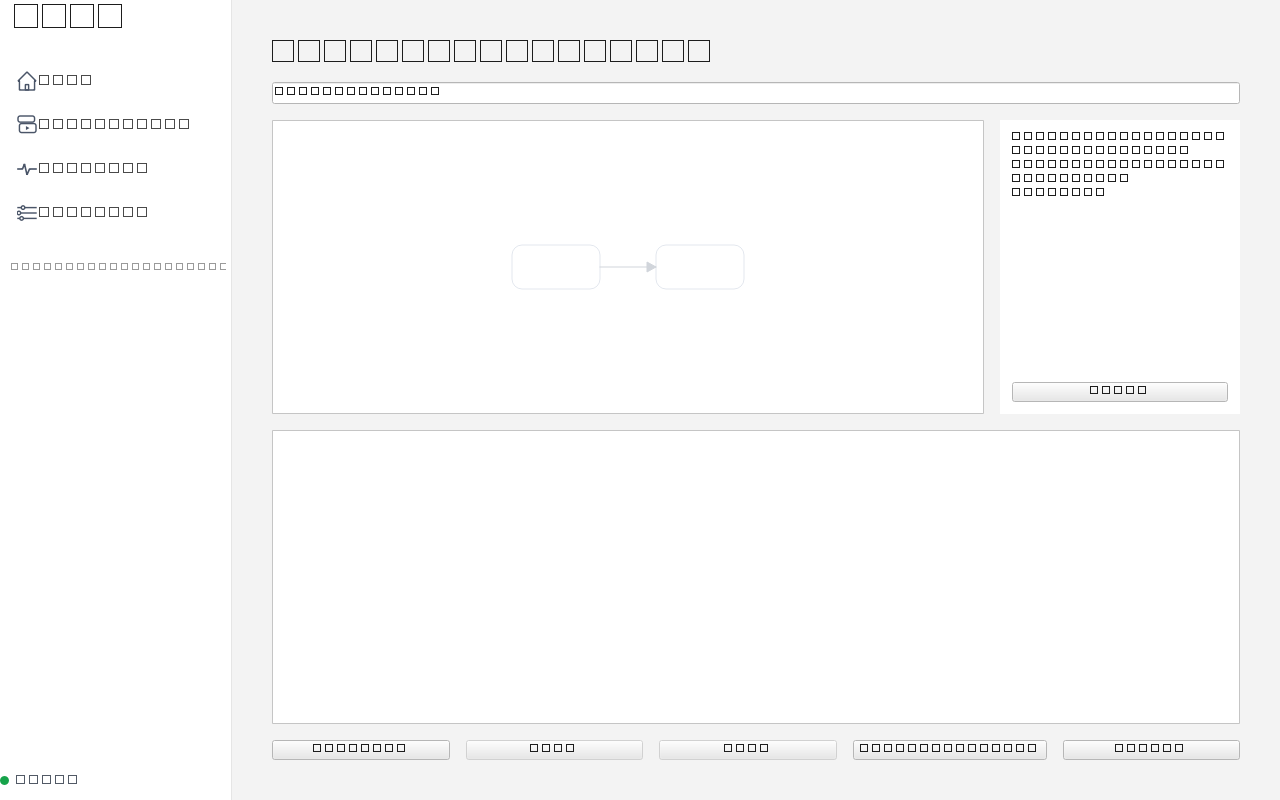
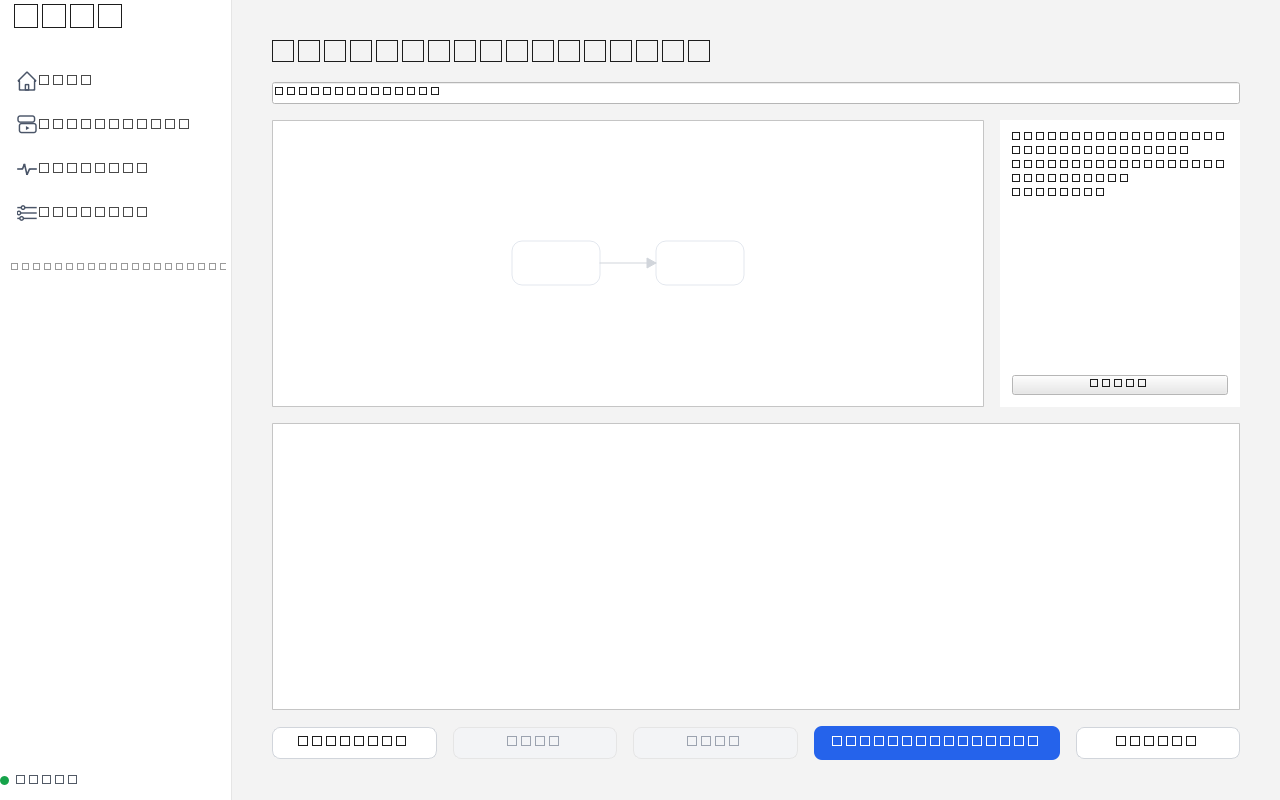
fix(ui): polish shell editor presentation

diff --git a/ui/pages/editor.py b/ui/pages/editor.py
@@ -103,14 +103,19 @@ class EditorPage(QWidget):
         layout.addWidget(self._steps_list)
         actions = QHBoxLayout()
         self._add_button = QPushButton("Add step", self)
+        self._add_button.setObjectName("secondaryActionButton")
         self._add_button.clicked.connect(self._add_step)
         self._undo_button = QPushButton("Undo", self)
+        self._undo_button.setObjectName("secondaryActionButton")
         self._undo_button.clicked.connect(self._undo)
         self._redo_button = QPushButton("Redo", self)
+        self._redo_button.setObjectName("secondaryActionButton")
         self._redo_button.clicked.connect(self._redo)
         self._save_button = QPushButton("Save automation", self)
+        self._save_button.setObjectName("primaryActionButton")
         self._save_button.clicked.connect(self._save)
         self._cancel_button = QPushButton("Cancel", self)
+        self._cancel_button.setObjectName("secondaryActionButton")
         self._cancel_button.clicked.connect(self.cancelled.emit)
         for button in (
             self._add_button,

diff --git a/tests/test_shell.py b/tests/test_shell.py
@@ -55,6 +55,7 @@ def test_home_page_shows_welcome_and_empty_activity(qtbot, window):
     assert "Once" in title
     assert "personal assistant" in subtitle
     assert home._activity_empty.isVisible() is True
+    assert home._demo_button.parentWidget().minimumHeight() >= 180
 
 
 def test_create_automation_page_has_description_input(qtbot, window):
@@ -105,6 +106,17 @@ def test_create_automation_button_ignores_blank_input(qtbot, window):
     qtbot.mouseClick(page._create_button, Qt.MouseButton.LeftButton)
 
     assert received == []
+    assert page._banner.isHidden()
+
+
+def test_create_from_scratch_clears_description_unavailable_banner(qtbot, window):
+    window._show_create_automation()
+    page = window.create_automation_page
+    page.show_not_available("Open invoices")
+    assert page._banner.isVisible()
+
+    qtbot.mouseClick(page._scratch_button, Qt.MouseButton.LeftButton)
+
     assert page._banner.isHidden()
 
 

diff --git a/ui/pages/create_automation.py b/ui/pages/create_automation.py
@@ -84,7 +84,7 @@ class CreateAutomationPage(QWidget):
         layout.addWidget(actions_container)
         self._scratch_button = QPushButton("Create from scratch", self)
         self._scratch_button.setObjectName("secondaryActionButton")
-        self._scratch_button.clicked.connect(self.editor_requested.emit)
+        self._scratch_button.clicked.connect(self._open_scratch_editor)
         layout.addWidget(self._scratch_button)
 
     def show_not_available(self, task_text: str) -> None:
@@ -102,6 +102,11 @@ class CreateAutomationPage(QWidget):
         text = self._description_input.toPlainText().strip() if self._description_input else ""
         if text:
             self.task_entered.emit(text)
+
+    def _open_scratch_editor(self) -> None:
+        if self._banner is not None:
+            self._banner.clear()
+        self.editor_requested.emit()
 
     def clear(self) -> None:
         if self._description_input:

diff --git a/tests/test_editor_page.py b/tests/test_editor_page.py
@@ -105,6 +105,16 @@ def test_clearing_the_name_keeps_previous_name_and_warns_inline(qtbot, tmp_path)
     assert "needs a name" in window.editor_page._banner.body_text
 
 
+def test_editor_actions_have_visible_button_styles(qtbot, tmp_path) -> None:
+    window = _make_window(qtbot, tmp_path)
+    window._show_editor()
+
+    assert window.editor_page._add_button.objectName() == "secondaryActionButton"
+    assert window.editor_page._undo_button.objectName() == "secondaryActionButton"
+    assert window.editor_page._redo_button.objectName() == "secondaryActionButton"
+    assert window.editor_page._save_button.objectName() == "primaryActionButton"
+
+
 def test_unsaved_bar_can_stay_then_discard_definition_changes(qtbot, tmp_path) -> None:
     window = _make_window(qtbot, tmp_path)
     _create_and_rename(window, qtbot, "Unsaved automation")

diff --git a/ui/components/cards.py b/ui/components/cards.py
@@ -41,6 +41,7 @@ class Card(QFrame):
         self._body = QLabel(body, self)
         self._body.setObjectName("cardBody")
         self._body.setWordWrap(True)
+        self._body.setMinimumHeight(54)
         self._action = QPushButton(action_label, self)
         self._action.setObjectName("secondaryActionButton")
         self._action.clicked.connect(self.action_requested.emit)

diff --git a/ui/pages/home.py b/ui/pages/home.py
@@ -67,6 +67,7 @@ class HomePage(QWidget):
             HOME_CARD_DEMO_ACTION,
             parent=self,
         )
+        demo_card.setMinimumHeight(190)
         self._demo_button = demo_card.action_button
         self._demo_button.setObjectName("primaryActionButton")
         demo_card.action_requested.connect(self._run_demo)

diff --git a/docs/ai_engineering_log.md b/docs/ai_engineering_log.md
@@ -2,6 +2,7 @@
 
 Append-only. Format per AGENTS.md. Human fills in the "Human review" line.
 
+
 ## 2026-10-21 — Step 0: Pre-flight, evidence, decisions   (commit: n/a — git repo not yet initialised; Step 1 runs `git init`)
 
 - Task: Establish a verified, pinned toolchain decision record without writing application code: detect environment, look up current facts (Python support status, PySide6 + dev-tool versions/compatibility, Microsoft naming docs, `st_birthtime` availability), choose the Python version, record everything in `docs/decisions.md`.
@@ -10,6 +11,23 @@ Append-only. Format per AGENTS.md. Human fills in the "Human review" line.
 - Verification: ran locally — `py -0p` (3 interpreters listed), `python --version` (3.14.3), `git --version` (2.55.0.windows.4), `cmd //c ver` (10.0.26300.9550), `st_birthtime` presence check on 3.14.3 and 3.13.5 (True/True), `pip index versions` for pytest/pytest-cov/pytest-qt/ruff/pyinstaller/send2trash (latest: 9.1.1 / 7.1.0 / 4.5.0 / 0.17.1 / 6.22.3 / 2.1.0), `pip install --dry-run send2trash==2.1.0` on 3.14 → "Would install Send2Trash-2.1.0" exit 0. Fetched and cited: devguide.python.org/versions, pypi.org/project/PySide6 (6.12.0, Requires-Python >=3.10,<3.16, win_amd64 abi3 wheel present), learn.microsoft.com naming-a-file (reserved chars/names incl. superscript variants), pypi.org/pypi/send2trash/2.1.0/json (classifiers to 3.14). NOT verified: send2trash 2.1.0 release date (search snippet only), ruff `target-version = "py314"` support (checked at Step 1).
 - Outcome: PASSED
 - Human review: 
+
+## 2026-11-01 — A2c: screenshot-polish   (commit: pending)
+- Task: correct screenshot-observed shell presentation defects without changing
+  editor or workflow semantics.
+- AI contribution: styled editor action buttons with existing design tokens,
+  cleared the stale scratch-editor banner, increased the Home demo card height,
+  and added regression tests.
+- Defect found: the first full-suite verification had one review UI
+  FileNotFoundError while waiting for a merged test repository; the isolated
+  test and the complete review UI module passed, and the subsequent full gate
+  passed.
+- Verification: focused UI tests printed `33 passed`; `scripts/capture_screenshots.ps1`
+  exited 0; `scripts/verify.ps1` printed `462 passed, 2 skipped`,
+  `All checks passed!`, `150 files already formatted`, both smoke tests PASS,
+  and `ALL CHECKS PASSED`.
+- Outcome: PASSED
+- Human review:
 
 ## 2026-10-22 — Draft editing and history detail inspection   (commit: 53e4ce0)
 - Task: Improve the workflow editor and execution-history surface without

diff --git a/docs/PROGRESS.md b/docs/PROGRESS.md
@@ -45,6 +45,7 @@ spec files (`docs/specs/visual_workflow_editor.md`, reference PNG) are MISSING
 | A2a | Editor selection + read-only inspector (solo-mode lane) | DONE | slice/a2a-selection-inspector 2db1087: click/keyboard selection with edge highlighting, closable right inspector (step summary or automation info), Enter focuses inspector; 12 new tests; screenshots include the editor page |
 | A2b | Inspector editing forms (solo-mode lane) | DONE | slice/a2b-inspector-forms d819a98: validator-backed name/message/attempts/target/wait-timeout/postcondition fields, controller-mediated atomic Apply, inline validation errors, 3 new tests; full verify 457 passed/2 skipped |
 | A2c | Undo, redo, save, and unsaved state (solo-mode lane) | DONE | slice/a2c-undo-save 9685c67: controller discard, Ctrl+Z/Ctrl+Y/Ctrl+S outside text fields, Save/Discard/Stay bar; 3 new tests; full verify 460 passed/2 skipped |
+| A2c-polish | Screenshot-driven UI polish | DONE | slice/a2c-undo-save: visible editor action styles, cleared scratch banner, taller Home demo card; focused 33 passed; full verify 462 passed/2 skipped on rerun (one prior full-suite review test failure passed isolated and on rerun) |
 | P5 | Recording → editor (slice/p5-recording-editor) | TODO | |
 | P6 | Run + review (slice/p6-run-review) | TODO | includes review.py defects D12/D13 |
 | P7 | Branching (slice/p7-branching) | PARKED | PARKED.md PARKED-1; Add-decision hidden |

diff --git a/docs/AUTONOMOUS_DECISIONS.md b/docs/AUTONOMOUS_DECISIONS.md
@@ -363,3 +363,14 @@ Format per item: id, date, question, options, choice, reason.
   keeps ownership of its own shortcuts. The three actions are reversible or
   use the already-tested save path; no modal confirmation or new persistence
   semantics are introduced.
+
+## AD-024 — 2026-11-01 — Screenshot-polish scope
+
+- Question: how should visible defects found in the captured shell screenshots
+  be corrected without changing workflow semantics?
+- Choice: use existing style tokens/object names for editor actions, clear the
+  stale informational banner when entering scratch editing, and reserve enough
+  height for the Home demonstration card body.
+- Reason: these are presentation-only corrections with observable regression
+  tests. They do not alter validators, approval behavior, persistence, or
+  filesystem operations.
